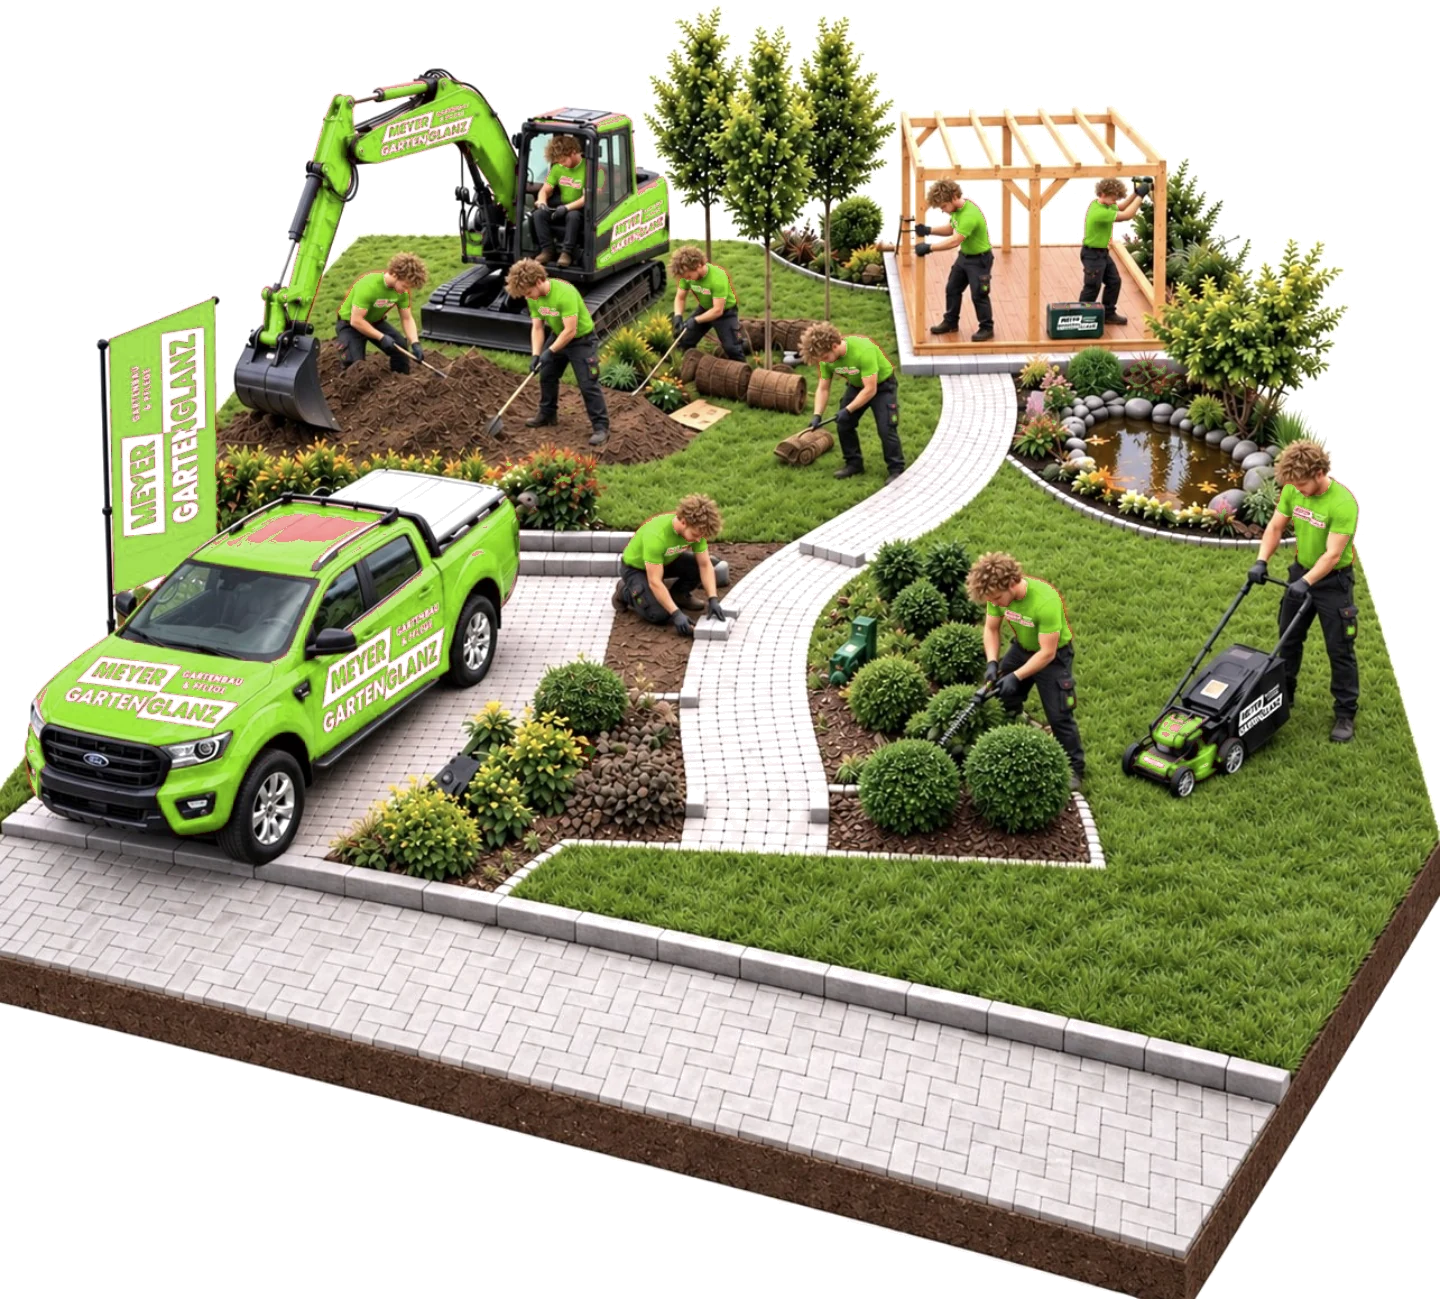
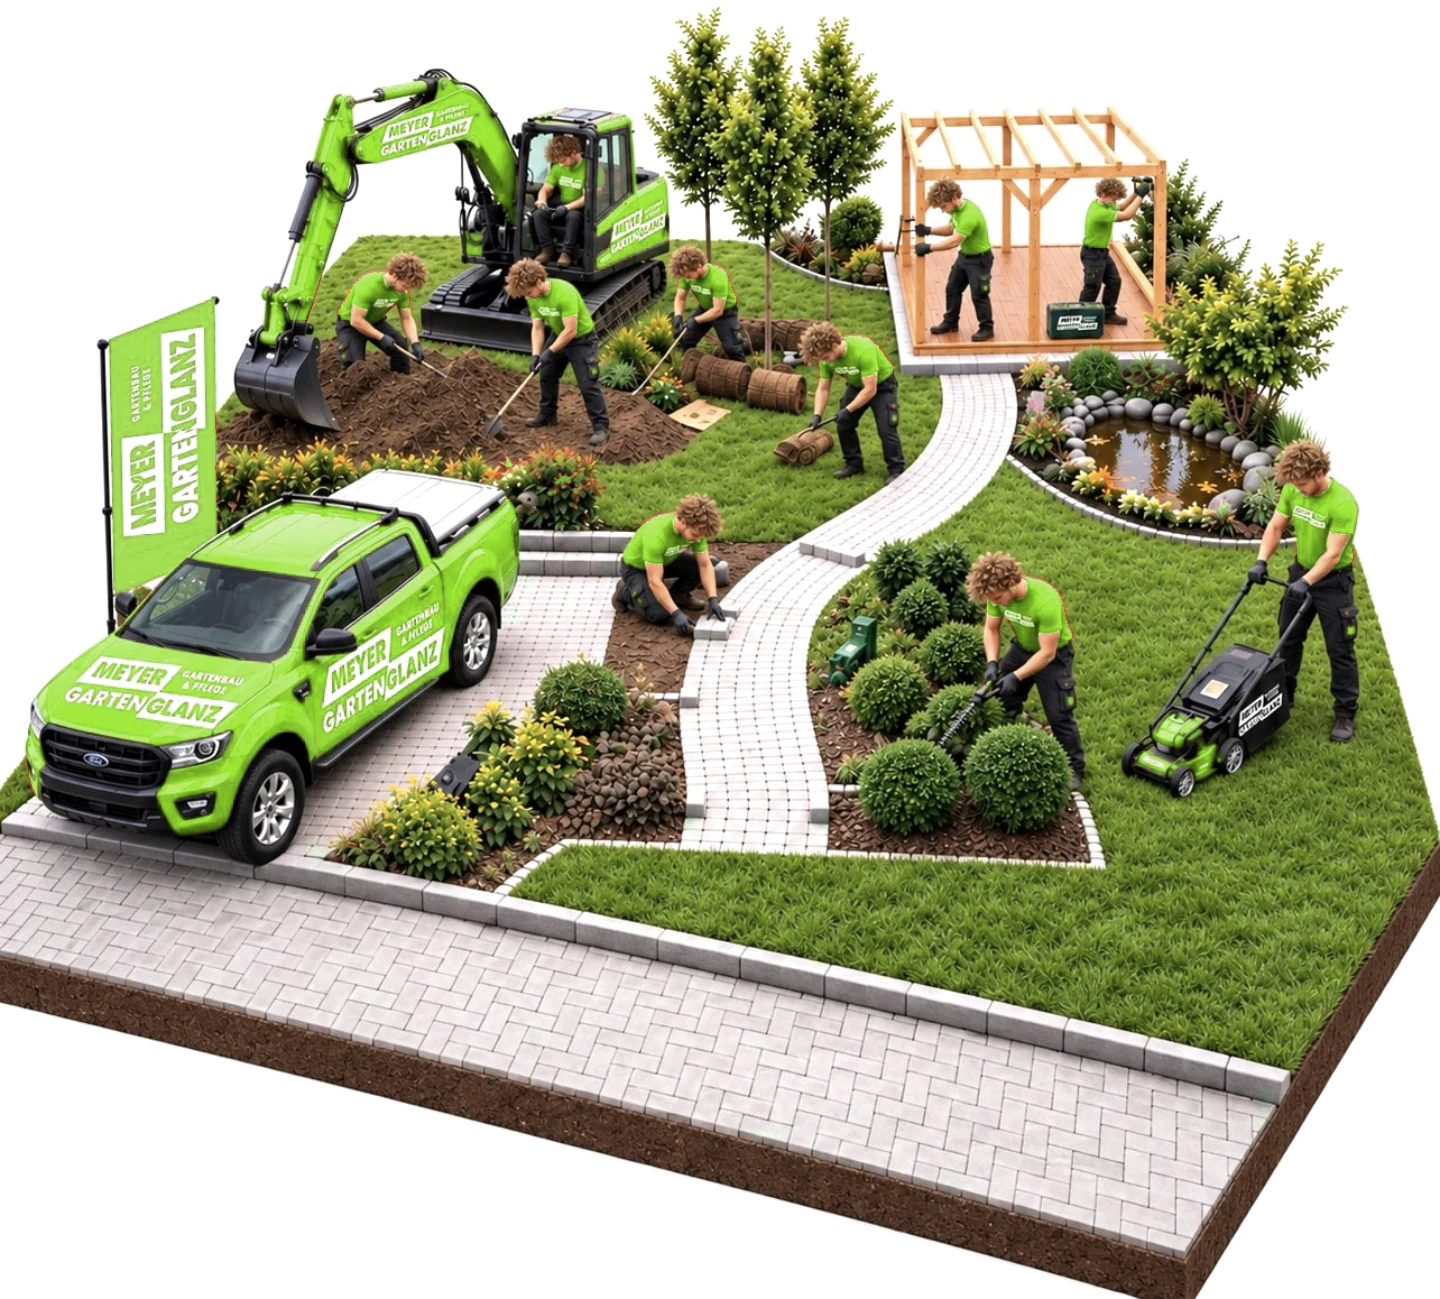
Illustration sorgfaeltig neu abgetoent, Ablauf-Sektion bei Gartenplanung, neues Gartenbau-Layout mit Bildern, Unterhaltsabo bei Gartenpflege hinzugefuegt
Claude-Session: https://claude.ai/code/session_01LmPg892E6TVTSN9vFyRnRh

diff --git a/gartengestaltung.html b/gartengestaltung.html
@@ -83,22 +83,91 @@ tailwind.config={theme:{extend:{"colors":{"on-error-container":"#93000a","surfac
           <li class="flex items-center gap-2"><span class="material-symbols-outlined text-primary text-[20px]">task_alt</span><span class="font-body-md text-base text-on-surface">Kostenschätzung</span></li>
           <li class="flex items-center gap-2"><span class="material-symbols-outlined text-primary text-[20px]">task_alt</span><span class="font-body-md text-base text-on-surface">Persönliche Beratung vor Ort</span></li>
         </ul>
+
+        <!-- Ablauf -->
+        <div class="w-full max-w-3xl mt-14 lg:mt-20 pt-10 border-t border-outline-variant/30 text-left">
+          <div class="text-center mb-8">
+            <span class="font-label-sm text-accent uppercase tracking-widest">So läuft es ab</span>
+            <h3 class="font-headline-md text-headline-md text-on-surface mt-2">In sechs Schritten zu Ihrem neuen Garten</h3>
+            <p class="font-body-md text-on-surface-variant mt-2 max-w-xl mx-auto">Von der ersten Idee bis zur Umsetzung begleiten wir Sie Schritt für Schritt – transparent, verbindlich und immer mit Ihnen im Austausch.</p>
+          </div>
+          <div class="grid grid-cols-1 sm:grid-cols-2 gap-x-10 gap-y-8">
+            <div class="flex items-start gap-4">
+              <span class="flex-shrink-0 w-10 h-10 rounded-full bg-primary text-on-primary flex items-center justify-center font-headline-md text-headline-md text-base">1</span>
+              <div>
+                <h4 class="font-body-md font-semibold text-on-surface">Kontaktaufnahme &amp; Wünsche</h4>
+                <p class="font-body-md text-sm text-on-surface-variant mt-1">Sie schildern uns Ihre Ideen, Ihren Platz und was Ihnen im Garten wichtig ist.</p>
+              </div>
+            </div>
+            <div class="flex items-start gap-4">
+              <span class="flex-shrink-0 w-10 h-10 rounded-full bg-primary text-on-primary flex items-center justify-center font-headline-md text-headline-md text-base">2</span>
+              <div>
+                <h4 class="font-body-md font-semibold text-on-surface">Besichtigung vor Ort</h4>
+                <p class="font-body-md text-sm text-on-surface-variant mt-1">Wir prüfen Boden, Lage und Gegebenheiten direkt bei Ihnen im Garten.</p>
+              </div>
+            </div>
+            <div class="flex items-start gap-4">
+              <span class="flex-shrink-0 w-10 h-10 rounded-full bg-primary text-on-primary flex items-center justify-center font-headline-md text-headline-md text-base">3</span>
+              <div>
+                <h4 class="font-body-md font-semibold text-on-surface">Erster Gestaltungsvorschlag</h4>
+                <p class="font-body-md text-sm text-on-surface-variant mt-1">Sie erhalten ein Konzept mit Pflanzen-, Material- und Raumideen für Ihren Garten.</p>
+              </div>
+            </div>
+            <div class="flex items-start gap-4">
+              <span class="flex-shrink-0 w-10 h-10 rounded-full bg-primary text-on-primary flex items-center justify-center font-headline-md text-headline-md text-base">4</span>
+              <div>
+                <h4 class="font-body-md font-semibold text-on-surface">Feinschliff gemeinsam</h4>
+                <p class="font-body-md text-sm text-on-surface-variant mt-1">Wünsche, Budget und letzte Details stimmen wir gemeinsam mit Ihnen ab.</p>
+              </div>
+            </div>
+            <div class="flex items-start gap-4">
+              <span class="flex-shrink-0 w-10 h-10 rounded-full bg-primary text-on-primary flex items-center justify-center font-headline-md text-headline-md text-base">5</span>
+              <div>
+                <h4 class="font-body-md font-semibold text-on-surface">Offerte &amp; Terminplanung</h4>
+                <p class="font-body-md text-sm text-on-surface-variant mt-1">Sie erhalten eine klare Kostenübersicht und einen verbindlichen Starttermin.</p>
+              </div>
+            </div>
+            <div class="flex items-start gap-4">
+              <span class="flex-shrink-0 w-10 h-10 rounded-full bg-primary text-on-primary flex items-center justify-center font-headline-md text-headline-md text-base">6</span>
+              <div>
+                <h4 class="font-body-md font-semibold text-on-surface">Umsetzung durch unser Team</h4>
+                <p class="font-body-md text-sm text-on-surface-variant mt-1">Unser Team setzt das Konzept sorgfältig um – bis Ihr Garten fertig ist.</p>
+              </div>
+            </div>
+          </div>
+        </div>
       </div>
 
       <!-- Panel: Gartenbau -->
       <div class="tab-panel hidden w-full flex-col gap-2 items-center text-center" data-panel="bau" role="tabpanel">
         <h2 class="font-headline-md text-headline-md text-on-surface">Gartenbau</h2>
         <p class="font-body-md text-lg text-on-surface-variant leading-snug max-w-xl">Von der Planung zur Umsetzung: Wir bauen Ihren Garten neu, mit Schweizer Präzision und Referenzen im ganzen Thurgau.</p>
-        <ul class="flex flex-col gap-1 mt-3 pt-2 border-t border-outline-variant/30 w-full max-w-sm text-left">
-          <li class="flex items-center gap-2"><span class="material-symbols-outlined text-primary text-[20px]">task_alt</span><span class="font-body-md text-base text-on-surface">Terrassenbau</span></li>
-          <li class="flex items-center gap-2"><span class="material-symbols-outlined text-primary text-[20px]">task_alt</span><span class="font-body-md text-base text-on-surface">Wegebau</span></li>
-          <li class="flex items-center gap-2"><span class="material-symbols-outlined text-primary text-[20px]">task_alt</span><span class="font-body-md text-base text-on-surface">Trockenmauern</span></li>
-          <li class="flex items-center gap-2"><span class="material-symbols-outlined text-primary text-[20px]">task_alt</span><span class="font-body-md text-base text-on-surface">Sichtschutzbau</span></li>
-          <li class="flex items-center gap-2"><span class="material-symbols-outlined text-primary text-[20px]">task_alt</span><span class="font-body-md text-base text-on-surface">Teichbau</span></li>
-          <li class="flex items-center gap-2"><span class="material-symbols-outlined text-primary text-[20px]">task_alt</span><span class="font-body-md text-base text-on-surface">Bewässerung</span></li>
-          <li class="flex items-center gap-2"><span class="material-symbols-outlined text-primary text-[20px]">task_alt</span><span class="font-body-md text-base text-on-surface">Beleuchtung</span></li>
-          <li class="flex items-center gap-2"><span class="material-symbols-outlined text-primary text-[20px]">task_alt</span><span class="font-body-md text-base text-on-surface">Rasenneuanlage</span></li>
-        </ul>
+        <div class="w-full grid grid-cols-1 lg:grid-cols-2 gap-10 lg:gap-14 items-center text-left mt-8">
+          <div class="relative w-full max-w-md mx-auto">
+            <img src="assets/images/hero-leistungen.jpg" alt="Gartenbau-Arbeiten von Meyer Gartenglanz" class="w-full h-72 object-cover rounded-xl shadow-lg">
+            <img src="assets/images/team-marius.jpg" alt="Team von Meyer Gartenglanz auf der Baustelle" class="hidden sm:block absolute -bottom-8 -right-6 w-36 h-36 object-cover rounded-xl shadow-xl border-4 border-surface">
+          </div>
+          <div class="flex flex-col gap-7">
+            <div>
+              <h3 class="font-body-md font-semibold text-on-surface text-lg mb-2">Aussenanlagen</h3>
+              <ul class="flex flex-col gap-1">
+                <li class="flex items-center gap-2"><span class="material-symbols-outlined text-primary text-[20px]">task_alt</span><span class="font-body-md text-base text-on-surface">Terrassenbau</span></li>
+                <li class="flex items-center gap-2"><span class="material-symbols-outlined text-primary text-[20px]">task_alt</span><span class="font-body-md text-base text-on-surface">Wegebau</span></li>
+                <li class="flex items-center gap-2"><span class="material-symbols-outlined text-primary text-[20px]">task_alt</span><span class="font-body-md text-base text-on-surface">Trockenmauern</span></li>
+                <li class="flex items-center gap-2"><span class="material-symbols-outlined text-primary text-[20px]">task_alt</span><span class="font-body-md text-base text-on-surface">Sichtschutzbau</span></li>
+              </ul>
+            </div>
+            <div>
+              <h3 class="font-body-md font-semibold text-on-surface text-lg mb-2">Wasser, Licht &amp; Rasen</h3>
+              <ul class="flex flex-col gap-1">
+                <li class="flex items-center gap-2"><span class="material-symbols-outlined text-primary text-[20px]">task_alt</span><span class="font-body-md text-base text-on-surface">Teichbau</span></li>
+                <li class="flex items-center gap-2"><span class="material-symbols-outlined text-primary text-[20px]">task_alt</span><span class="font-body-md text-base text-on-surface">Bewässerung</span></li>
+                <li class="flex items-center gap-2"><span class="material-symbols-outlined text-primary text-[20px]">task_alt</span><span class="font-body-md text-base text-on-surface">Beleuchtung</span></li>
+                <li class="flex items-center gap-2"><span class="material-symbols-outlined text-primary text-[20px]">task_alt</span><span class="font-body-md text-base text-on-surface">Rasenneuanlage</span></li>
+              </ul>
+            </div>
+          </div>
+        </div>
       </div>
 
       <!-- Panel: Gartenpflege -->
@@ -114,6 +183,31 @@ tailwind.config={theme:{extend:{"colors":{"on-error-container":"#93000a","surfac
           <li class="flex items-center gap-2"><span class="material-symbols-outlined text-primary text-[20px]">task_alt</span><span class="font-body-md text-base text-on-surface">Laubentsorgung</span></li>
           <li class="flex items-center gap-2"><span class="material-symbols-outlined text-primary text-[20px]">task_alt</span><span class="font-body-md text-base text-on-surface">Frühjahrsputz</span></li>
         </ul>
+
+        <!-- Unterhaltsabo -->
+        <div class="w-full max-w-3xl mt-14 lg:mt-20 pt-10 border-t border-outline-variant/30">
+          <div class="bg-secondary-container/40 rounded-xl p-8 lg:p-12 flex flex-col items-center text-center gap-5">
+            <span class="font-label-sm text-accent uppercase tracking-widest">Unser Unterhaltsabo</span>
+            <h3 class="font-headline-md text-headline-md text-on-surface">Gartenpflege im Abo – bequem und planbar</h3>
+            <p class="font-body-md text-on-surface-variant max-w-xl">Statt jeden Pflegeschritt einzeln zu organisieren, übernehmen wir Ihren Garten im festen Rhythmus. Sie legen gemeinsam mit uns fest, wie oft wir vorbeikommen – wir kümmern uns um den Rest.</p>
+            <ul class="grid grid-cols-2 sm:grid-cols-3 gap-x-6 gap-y-2 text-left w-full max-w-xl mt-2">
+              <li class="flex items-center gap-2"><span class="material-symbols-outlined text-primary text-[18px]">eco</span><span class="font-body-md text-sm text-on-surface">Rasenschnitt</span></li>
+              <li class="flex items-center gap-2"><span class="material-symbols-outlined text-primary text-[18px]">eco</span><span class="font-body-md text-sm text-on-surface">Heckenschnitt</span></li>
+              <li class="flex items-center gap-2"><span class="material-symbols-outlined text-primary text-[18px]">eco</span><span class="font-body-md text-sm text-on-surface">Unkrautentfernung</span></li>
+              <li class="flex items-center gap-2"><span class="material-symbols-outlined text-primary text-[18px]">eco</span><span class="font-body-md text-sm text-on-surface">Neupflanzungen</span></li>
+              <li class="flex items-center gap-2"><span class="material-symbols-outlined text-primary text-[18px]">eco</span><span class="font-body-md text-sm text-on-surface">Baum- &amp; Strauchschnitt</span></li>
+              <li class="flex items-center gap-2"><span class="material-symbols-outlined text-primary text-[18px]">eco</span><span class="font-body-md text-sm text-on-surface">Bewässerungscheck</span></li>
+              <li class="flex items-center gap-2"><span class="material-symbols-outlined text-primary text-[18px]">eco</span><span class="font-body-md text-sm text-on-surface">Düngung</span></li>
+              <li class="flex items-center gap-2"><span class="material-symbols-outlined text-primary text-[18px]">eco</span><span class="font-body-md text-sm text-on-surface">Laub- &amp; Grünschnittentsorgung</span></li>
+              <li class="flex items-center gap-2"><span class="material-symbols-outlined text-primary text-[18px]">eco</span><span class="font-body-md text-sm text-on-surface">Winterschutz</span></li>
+            </ul>
+            <p class="font-body-md text-on-surface-variant max-w-xl mt-2">So bleibt Ihr Garten das ganze Jahr über gepflegt – ohne dass Sie selbst daran denken müssen. Der Umfang und die Häufigkeit des Abos stimmen wir ganz auf Ihren Garten ab.</p>
+            <a href="kontakt.html" class="bg-primary text-on-primary px-8 py-3.5 rounded-full font-label-sm hover:scale-[1.02] transition-transform inline-flex items-center gap-2 mt-2">
+              Unterhaltsabo anfragen
+              <span class="material-symbols-outlined">arrow_forward</span>
+            </a>
+          </div>
+        </div>
       </div>
     </div>
 
